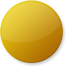
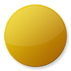
Re-sized coin images

Changed region(s): [[0.0, 0.0, 0.9552, 0.9552], [0.8657, 0.3881, 0.8955, 0.4179]]

diff --git a/coinbreak/AppDelegate.m b/coinbreak/AppDelegate.m
@@ -126,6 +126,22 @@
     [[SimpleAudioEngine sharedEngine] preloadEffect:@"coin.caf"];
     [[SimpleAudioEngine sharedEngine] preloadEffect:@"tick.caf"];
     
+    // Get user defaults
+	NSUserDefaults *defaults = [NSUserDefaults standardUserDefaults];
+	
+	// Register default high scores - this could be more easily done by loading a .plist instead of manually creating this nested object
+	NSDictionary *defaultDefaults = [NSDictionary dictionaryWithObjectsAndKeys:
+                                     [NSNumber numberWithInt:0], @"gamesWon",
+                                     [NSNumber numberWithInt:0], @"gamesLost",
+                                     [NSNumber numberWithInt:0], @"averageTurnLength",
+                                     [NSNumber numberWithInt:0], @"coinsUsed",
+                                     [NSNumber numberWithInt:0], @"experience",
+                                     [NSNumber numberWithInt:1], @"level",
+                                     nil];
+	
+	[defaults registerDefaults:defaultDefaults];
+	[defaults synchronize];
+    
 	// Run the intro Scene
 	[[CCDirector sharedDirector] runWithScene:[LogoScene scene]];
 }

diff --git a/coinbreak/Coin.m b/coinbreak/Coin.m
@@ -121,7 +121,7 @@
 {
     // Create sprite
     CCSprite *s = [CCSprite spriteWithFile:[NSString stringWithFormat:@"ring-effect%@.png", hdSuffix]];
-    s.position = ccp(-4 * fontMultiplier, 4 * fontMultiplier);    // Slightly offset due to the fact that coin backgrounds have a shadow
+    s.position = ccp(0, 0);
     [self addChild:s z:2];
     
     // Set scale a quarter
